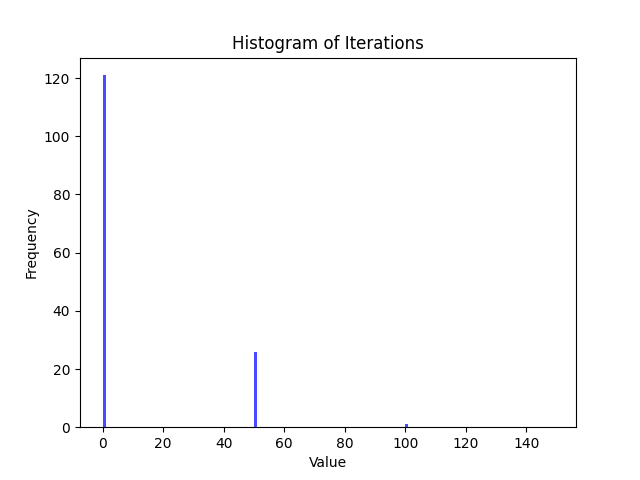
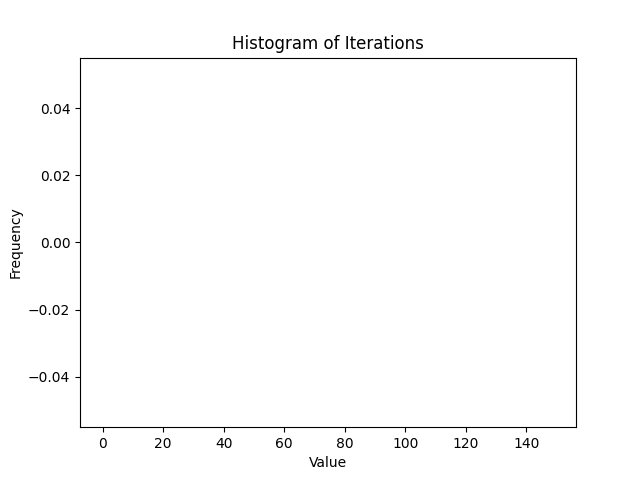
correct plot

diff --git a/run.py b/run.py
@@ -95,8 +95,9 @@ if __name__ == '__main__':
             print('It cannot reach 0.9 acc within max_iteration steps...')
         result.append(stop_iteration)
     
+    print(result)
     # histogram
-    plt.hist(result, bins=range(0, 150, 1), color='blue', alpha=0.7)
+    plt.hist(result, color='blue', alpha=0.7)
 
     # Add titles and labels
     plt.title('Histogram of Iterations')
